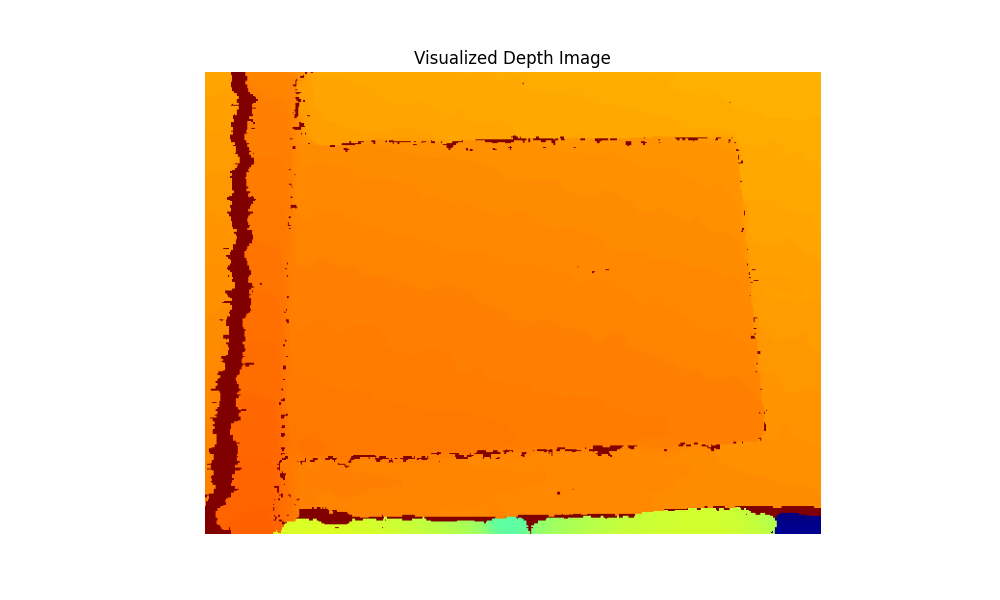
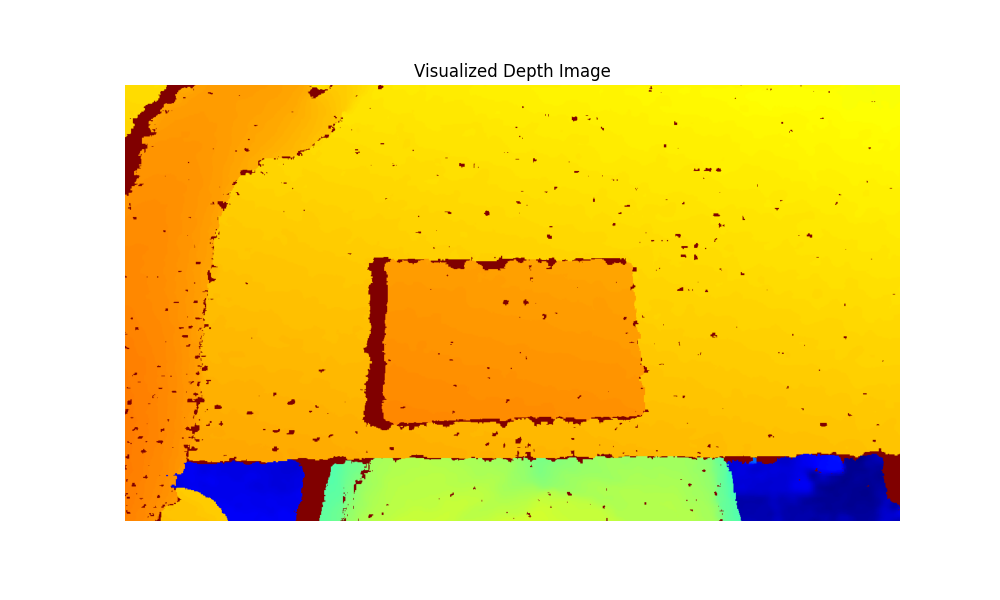
Transformation from camera to apriltag coordinate system
- still some issues with the calculations

diff --git a/src/user_interaction.py b/src/user_interaction.py
@@ -7,7 +7,7 @@ mode = 'circle'  # Default mode is to draw circles
 ix, iy = -1, -1  # Initial mouse position
 temp_img = None  # Temporary image for drawing
 
-def draw(event, x, y, flags, param) -> None:
+def draw(event, x, y, flags, params) -> None:
     """
     Mouse callback function to handle drawing on the image.
 
@@ -20,13 +20,12 @@ def draw(event, x, y, flags, param) -> None:
     global ix, iy, drawing, mode, temp_img
 
     # Extract the parameters from the dictionary
-    rvec = param["rvec"]
-    tvec = param["tvec"]
-    camera_matrix = param["camera_matrix"]
-    dist_coeffs = param["dist_coeffs"]
-    img = param["image"]
-    depth_frame = param["depth_frame"]
-    intrinsics = param["intrinsics"]
+    rvec = params["rvec"]
+    tvec = params["tvec"]
+    camera_matrix = params["camera_matrix"]
+    img = params["image"]
+    depth_frame = params["depth_frame"]
+    depth_intrinsics = params["depth_intrinsics"]
 
 
     # Left mouse button pressed - set the initial point
@@ -50,25 +49,24 @@ def draw(event, x, y, flags, param) -> None:
     # Left mouse button released - finalize the drawing
     elif event == cv2.EVENT_LBUTTONUP:
         drawing = False
+
         if mode == 'circle':
             # Finalize the circle on the original image
             cv2.circle(img, (ix, iy), int(((x-ix)**2 + (y-iy)**2)**0.5), (0, 255, 0), 2)
             cv2.putText(img, f"(x: {ix}px, y: {iy}px)", (ix, iy), cv2.FONT_HERSHEY_SIMPLEX, 0.5, (255, 255, 0), 2)
+
             print(f"Circle drawn at: (x: {ix}px, y: {iy}px) with radius: {int(((x-ix)**2 + (y-iy)**2)**0.5)}px")
 
-            # Pose des AprilTags als Rotationsmatrix und Translationsvektor
-            R_ct = rvec  # Rotationsmatrix des AprilTags
-            t_ct = tvec.reshape(3, 1)
-
-            april_tag_pose = (R_ct, t_ct)
+            april_tag_pose = (rvec, tvec)
 
             # Konvertiere die Intrinsiken in das richtige Format
-            P_t = pixelcoords_to_apriltagcoords(ix, iy, depth_frame, intrinsics, april_tag_pose)
+            at_coords = pixelcoords_to_apriltagcoords(ix, iy, depth_frame, depth_intrinsics, april_tag_pose)
 
-            if P_t is not None:
-                print(f"3D-Koordinaten relativ zum AprilTag: {P_t}")
+            if at_coords is not None:
+                print(f"3D-Koordinaten relativ zum AprilTag: {at_coords}")
             else:
-                print("Konnte die 3D-Koordinaten nicht berechnen.")
+                # print("Konnte die 3D-Koordinaten nicht berechnen.")
+                pass
 
         elif mode == 'line':
             # Finalize the line on the original image
@@ -79,7 +77,7 @@ def draw(event, x, y, flags, param) -> None:
 
         # FIXME: fix the pixel_to_tag_coords function in utils.py
 
-def edit_saved_image(image_path, depth_frame, detector, result, camera_matrix, dist_coeffs) -> None:    
+def edit_saved_image(image_path, result, camera_matrix, depth_frame, depth_intrinsics) -> None:    
     """
     Opens a saved image and allows the user to draw on it.
 
@@ -95,15 +93,16 @@ def edit_saved_image(image_path, depth_frame, detector, result, camera_matrix, d
 
     temp_img = img.copy()  # Temporary image for drawing
 
+    # rvec, _ = cv2.Rodrigues(result.pose_R)
+
     # Pack the additional parameters into a dictionary
     params = {
         "rvec": result.pose_R,
         "tvec": result.pose_t,
         "camera_matrix": camera_matrix,
-        "dist_coeffs": dist_coeffs,
         "image": img,
         "depth_frame": depth_frame,
-        "intrinsics": depth_frame.profile.as_video_stream_profile().intrinsics
+        "depth_intrinsics": depth_intrinsics
     }
 
     cv2.namedWindow('Editing')

diff --git a/src/camera.py b/src/camera.py
@@ -1,12 +1,12 @@
 import pyrealsense2 as rs
 import numpy as np
-from typing import Tuple
+from typing import Tuple, Dict
 
 class Camera:
     """
     Class to interface with a RealSense camera
     """
-    def __init__(self, width=640, height=480, fps=60, enable_depth=True, enable_color=True) -> None:
+    def __init__(self, width=1280, height=720, fps=30, enable_depth=True, enable_color=True) -> None:
         self.pipeline = rs.pipeline()
         self.config = rs.config()
 
@@ -52,21 +52,47 @@ class Camera:
         color_image = np.asanyarray(color_frame.get_data())
         depth_image = np.asanyarray(depth_frame.get_data())
 
-        return color_frame, depth_frame, color_image, depth_image
+        return color_image, depth_image, depth_frame, color_frame
 
 
-    def get_color_sensor_intrinsics(self) -> Tuple[float, float, float, float, np.ndarray]:
+    def get_color_sensor_intrinsics(self) -> Dict:
         """
-        Get the intrinsics of the color sensor
+        Get the intrinsics of the color sensor as a dictionary.
 
-        :return: Tuple of fx, fy, ppx, ppy, and the distortion coefficients
+        :return: Dictionary with keys 'fx', 'fy', 'ppx', 'ppy', and 'dist_coeffs'
         """
         # Hole das aktive Farbprofil
         color_stream = self.profile.get_stream(rs.stream.color)
         video_stream_profile = color_stream.as_video_stream_profile()
         intrinsics = video_stream_profile.get_intrinsics()
 
-        return intrinsics.fx, intrinsics.fy, intrinsics.ppx, intrinsics.ppy, np.array(intrinsics.coeffs)
+        return {
+            "fx": intrinsics.fx,
+            "fy": intrinsics.fy,
+            "ppx": intrinsics.ppx,
+            "ppy": intrinsics.ppy,
+            "dist_coeffs": np.array(intrinsics.coeffs)
+        }
+
+
+    def get_depth_sensor_intrinsics(self) -> Dict:
+        """
+        Get the intrinsics of the depth sensor
+
+        :return: Tuple of fx, fy, ppx, ppy, and the distortion coefficients
+        """
+        # Hole das aktive Tiefenprofil
+        depth_stream = self.profile.get_stream(rs.stream.depth)
+        video_stream_profile = depth_stream.as_video_stream_profile()
+        intrinsics = video_stream_profile.get_intrinsics()
+
+        return {
+            "fx": intrinsics.fx,
+            "fy": intrinsics.fy,
+            "ppx": intrinsics.ppx,
+            "ppy": intrinsics.ppy,
+            "dist_coeffs": np.array(intrinsics.coeffs)
+        }
 
 
     def stop(self) -> None:

diff --git a/src/main.py b/src/main.py
@@ -11,9 +11,11 @@ def main() -> None:
     camera = Camera()
 
     # Get the color sensor and its intrinsics
-    fx, fy, ppx, ppy, dist_coeffs = camera.get_color_sensor_intrinsics()
+    color_intrinsics = camera.get_color_sensor_intrinsics()
 
-    apriltag_detector = AprilTagDetector(fx=fx, fy=fy, cx=ppx, cy=ppy)
+    depth_intrinsics = camera.get_depth_sensor_intrinsics()
+
+    apriltag_detector = AprilTagDetector(fx=color_intrinsics["fx"], fy=color_intrinsics["fy"], cx=color_intrinsics["ppx"], cy=color_intrinsics["ppy"])
 
     # Set the camera matrix with the intrinsics
     camera_matrix = np.array([[apriltag_detector.fx, 0, apriltag_detector.cx],
@@ -25,8 +27,8 @@ def main() -> None:
     
     try:
         while True:
-            color_frame, depth_frame, color_image, depth_image = camera.get_frames()
-            if color_frame is None or depth_frame is None:
+            color_image, depth_image, depth_frame, _ = camera.get_frames()
+            if color_image is None or depth_image is None or depth_frame is None:
                 continue
 
             # Convert the frame to grayscale for AprilTag detection
@@ -45,7 +47,7 @@ def main() -> None:
                 # TODO: Maybe implement z-axis stabilization
                 
                 # Draw the axes and tag border with ID
-                color_image = draw_axes(color_image, rvec, tvec, camera_matrix, dist_coeffs, axis_length)
+                color_image = draw_axes(color_image, rvec, tvec, camera_matrix, color_intrinsics["dist_coeffs"], axis_length)
                 color_image = draw_tag_border_and_id(color_image, result)
 
             # Display the image with the AprilTag detection
@@ -60,7 +62,9 @@ def main() -> None:
                     # Save the image of the component if a tag was detected and open it for editing
                     visualize_depth_image(depth_image)  # Visualisiere hier das Tiefenbild
                     saved_image_path = save_component_img(color_image, results[0].tag_id)
-                    edit_saved_image(saved_image_path, depth_frame, apriltag_detector.detector, results[0], camera_matrix, dist_coeffs)
+
+
+                    edit_saved_image(saved_image_path, results[0], camera_matrix, depth_frame, depth_intrinsics)
             # Close the window if the 'q' key is pressed
             if key == ord('q'):
                 break

diff --git a/src/utils.py b/src/utils.py
@@ -1,32 +1,42 @@
 import numpy as np
 
 def pixelcoords_to_apriltagcoords(u, v, depth_frame, intrinsics, april_tag_pose):
-    # Schritt 1: Erhalte die Tiefe genau am Kreiszentrum
-    Z = depth_frame.get_distance(int(u), int(v))  # Tiefe in Metern
+    print(f"Pixel coordinates: ({u}px, {v}px)")
 
-    if Z == 0:
+    # Step 1: Get the camera depth sensor intrinsics
+    Z_c = depth_frame.get_distance(int(u), int(v))  # Depth value in meters
+
+    if Z_c == 0:
         print("Keine Tiefeninformation an den angegebenen Pixelkoordinaten verfügbar.")
         return None
-
-    # Schritt 2: Projiziere in 3D-Kamerakoordinaten (X, Y, Z)
-    X = (u - intrinsics.ppx) * Z / intrinsics.fx
-    Y = (v - intrinsics.ppy) * Z / intrinsics.fy
-    P_c = np.array([X, Y, Z])
     
-    # Debug: Ausgabe der Kamerakoordinaten (P_c)
-    print(f"Kamerakoordinaten P_c: {P_c}")
+    print(f"Distance to AprilTag: {Z_c}m")
 
-    # Schritt 3: Bestimme die Transformation vom AprilTag zur Kamera
-    R_ct, t_ct = april_tag_pose
+    # Step 2: Convert the pixel coordinates to camera coordinates
+    X_c = (int(u) - intrinsics["ppx"]) * Z_c / intrinsics["fx"]
+    Y_c = (int(v) - intrinsics["ppy"]) * Z_c / intrinsics["fy"]
 
-    # Transformiere den Punkt in das AprilTag-Koordinatensystem
-    P_t = R_ct.T @ (P_c - t_ct.flatten())
+    print (f"Point in camera coordinates: ({X_c}, {Y_c}, {Z_c})")
 
-    print(f"AprilTag Position (t_ct): {t_ct.flatten()}")
-    print(f"AprilTag Rotation (R_ct):\n{R_ct}")
+    # check_pixel_to_camera_conversion(intrinsics, x_c, y_c, z_c)
+
+    # Step 3: Transform the camera coordinates to AprilTag coordinates
+    R_tc = np.array(april_tag_pose[0])
+    t_tc = np.array(april_tag_pose[1])
+
+    print(f"Rotation matrix: {R_tc}")
+    print(f"Translation vector: {t_tc}")
+
+    R_ct = R_tc.T
+    t_ct = (-R_ct @ t_tc).flatten()
+
+    
+
+    return None
 
 
-    # Debug: Ausgabe des transformierten Punkts P_t
-    print(f"3D-Koordinaten relativ zum AprilTag: {P_t}")
+def check_pixel_to_camera_conversion(intrinsics, x_c, y_c, z_c):
+    u_ = (intrinsics["fx"] * x_c / z_c) + intrinsics["ppx"]
+    v_ = (intrinsics["fy"] * y_c / z_c) + intrinsics["ppy"]
 
-    return P_t
+    print(f"Reconstructed pixel coordinates: ({u_}px, {v_}px)")

diff --git a/src/apriltag_detection.py b/src/apriltag_detection.py
@@ -5,7 +5,7 @@ class AprilTagDetector:
     """
     Class to detect apriltags in a grayscale frame
     """
-    def __init__(self, tag_family="tagStandard41h12", fx=None, fy=None, cx=None, cy=None, tag_size=0.04) -> None:
+    def __init__(self, tag_family="tagStandard41h12", fx=None, fy=None, cx=None, cy=None, tag_size=0.015) -> None:
         self.detector = Detector(families=tag_family)
         self.fx = fx
         self.fy = fy
